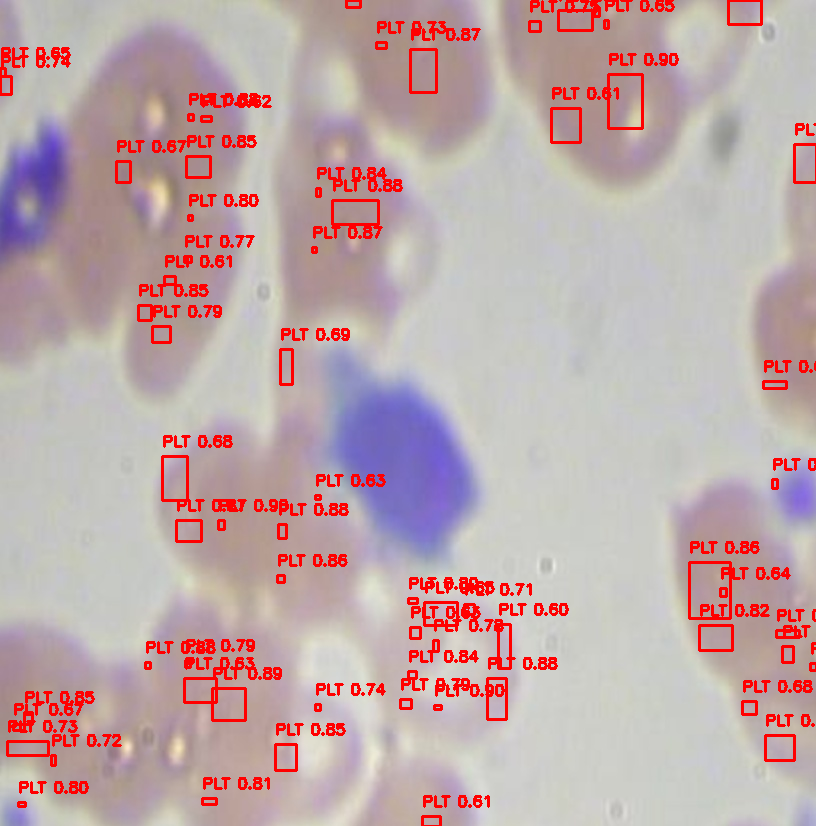
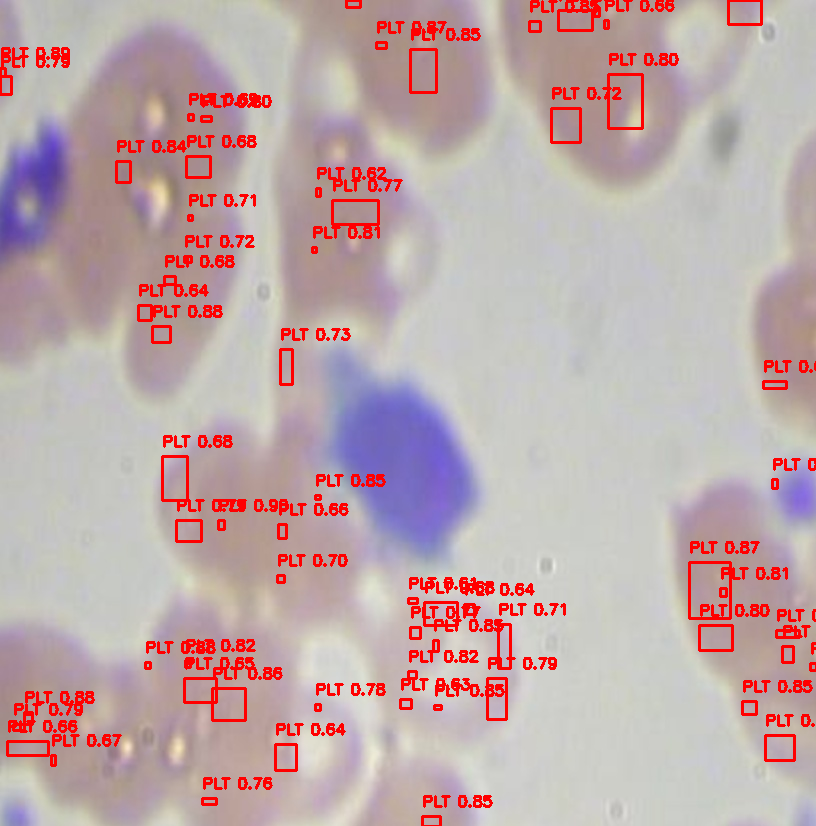
fix model

diff --git a/models.py b/models.py
@@ -411,9 +411,9 @@ def create_enhanced_detection(image_path):
             enhanced,
             cv2.HOUGH_GRADIENT,
             dp=1.2,
-            minDist=12,   # Decreased min distance
+            minDist=10,   # Further decreased min distance
             param1=50,   # Relaxed edge threshold
-            param2=20,   # Relaxed accumulator threshold
+            param2=18,   # Further relaxed accumulator threshold
             minRadius=8, # More realistic min radius
             maxRadius=35
         )
@@ -425,9 +425,9 @@ def create_enhanced_detection(image_path):
             blurred,
             cv2.HOUGH_GRADIENT,
             dp=1.5,
-            minDist=20,
+            minDist=15,
             param1=60,
-            param2=20,
+            param2=18,
             minRadius=10,
             maxRadius=32
         )
@@ -442,7 +442,7 @@ def create_enhanced_detection(image_path):
             for existing in unique_circles:
                 ex, ey, er = existing
                 distance = np.sqrt((x - ex)**2 + (y - ey)**2)
-                if distance < (r + er) * 0.6:  # Less aggressive overlap check
+                if distance < r * 0.8:  # Less aggressive overlap check
                     is_duplicate = True
                     break
             if not is_duplicate:
